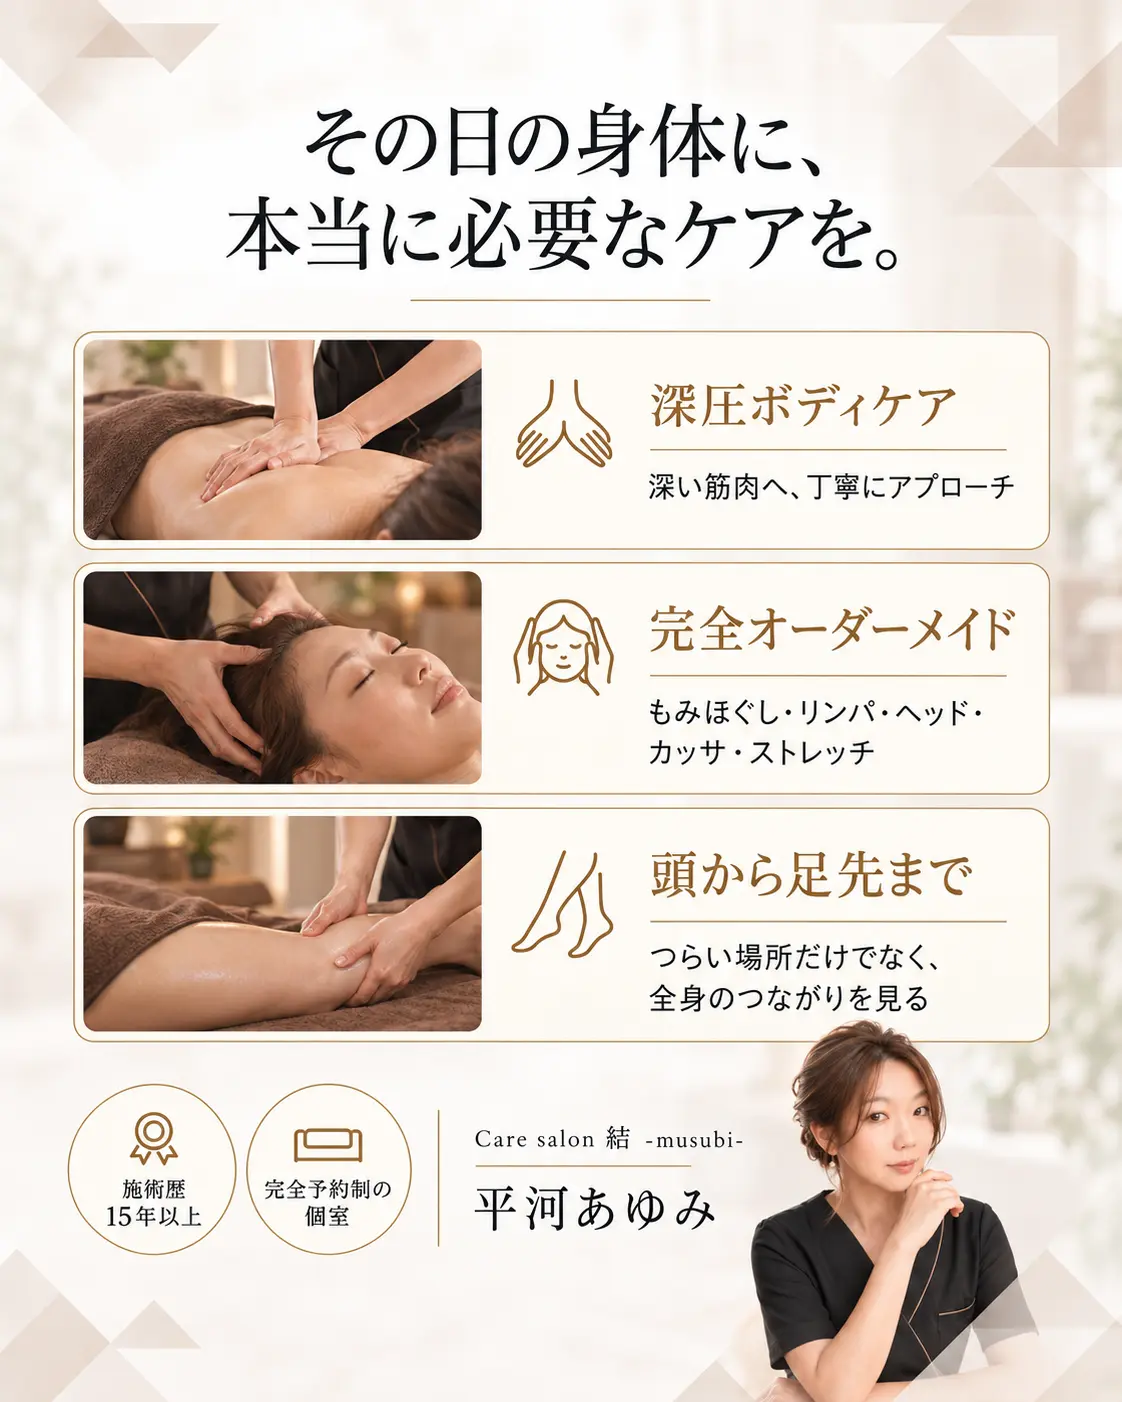
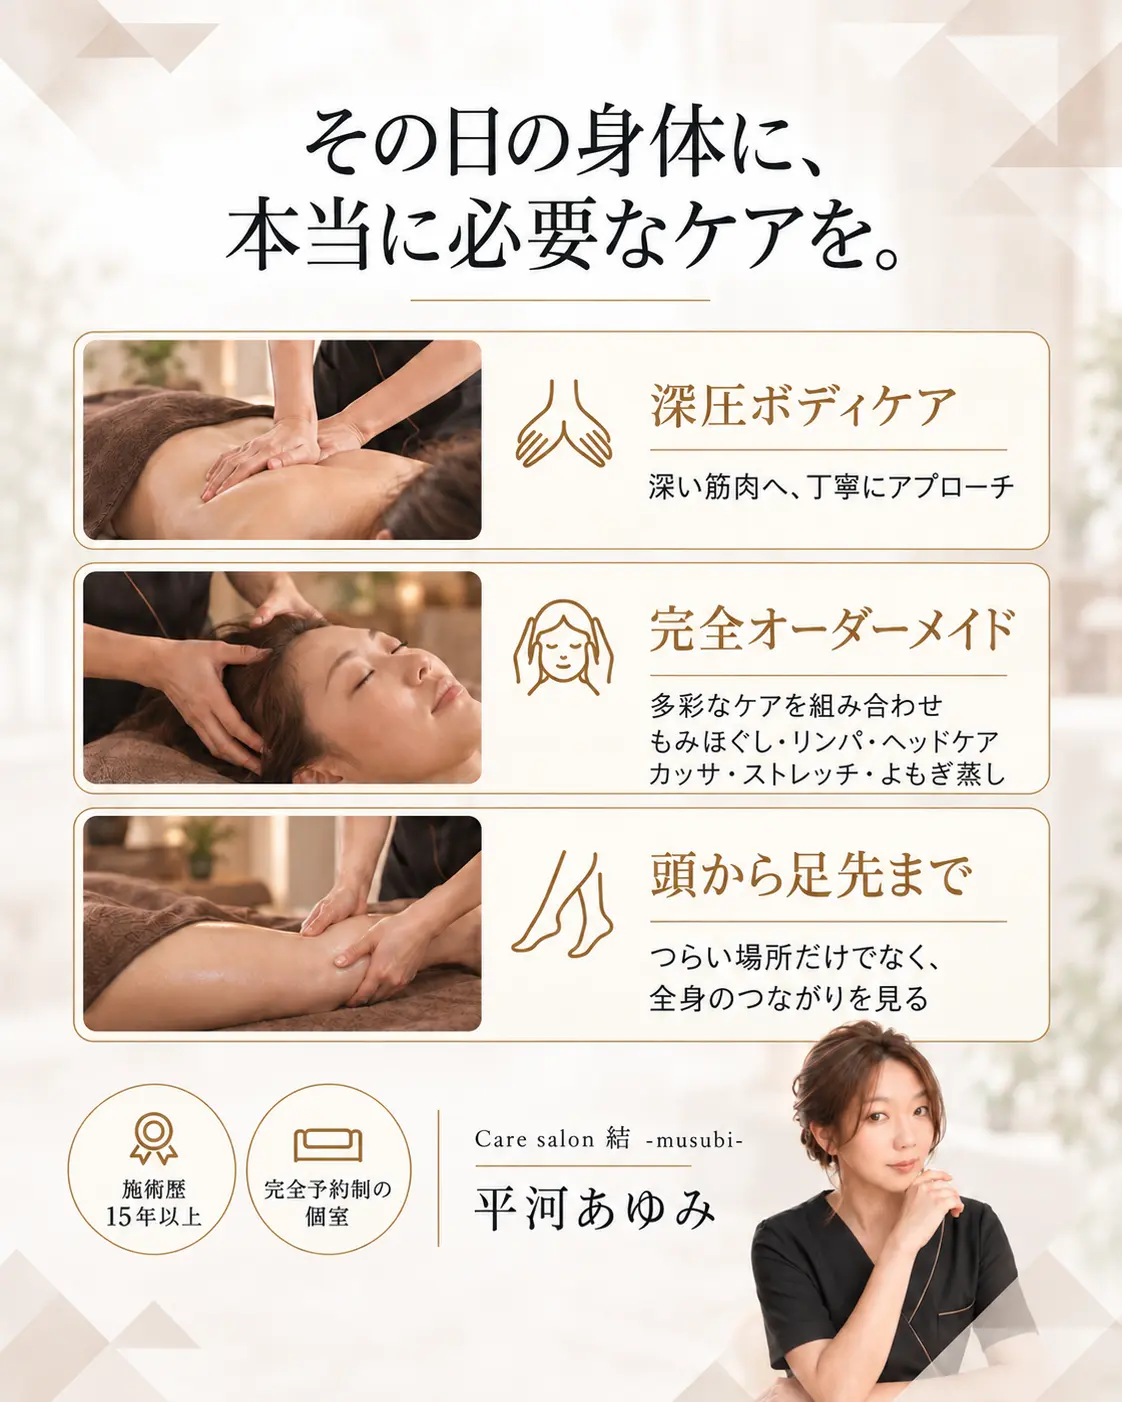
Separate service details from value-focused final panel

diff --git a/index.html b/index.html
@@ -60,7 +60,7 @@
           src="assets/LP_03.webp"
           width="1122"
           height="1402"
-          alt="深圧ボディケア、完全オーダーメイド、頭から足先までの施術とセラピスト平河あゆみの紹介"
+          alt="深圧ボディケア、よもぎ蒸しを含む多彩なオーダーメイド施術、頭から足先までのケアとセラピスト平河あゆみの紹介"
           loading="lazy"
           decoding="async"
         />
@@ -72,7 +72,7 @@
           src="assets/LP_04.webp"
           width="1122"
           height="1402"
-          alt="完全オーダーメイド施術、15年以上の経験、よくある質問、公式LINEでの予約案内"
+          alt="施術後の軽さと毎日の活力という価値、よくある質問、公式LINEでの予約案内"
           loading="lazy"
           decoding="async"
         />
